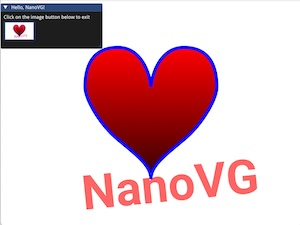
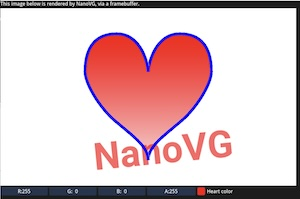
Work on nanovg demos / metal

diff --git a/bindings/imgui_bundle/demos_python/demos_nanovg/demo_nanovg_heart.py b/bindings/imgui_bundle/demos_python/demos_nanovg/demo_nanovg_heart.py
@@ -1,7 +1,17 @@
 from imgui_bundle import hello_imgui, imgui, nanovg as nvg, ImVec2
 import math
+from typing import List
 
 nvg_imgui = nvg.nvg_imgui
+
+
+class DrawingState:
+    heart_color: List[float]
+
+    def __init__(self):
+        self.heart_color = [1.0, 0.0, 0.0, 1.0]
+
+gDrawingState = DrawingState()
 
 
 def draw_heart(vg: nvg.Context, center: ImVec2, size: float, t: float):
@@ -29,7 +39,10 @@ def draw_heart(vg: nvg.Context, center: ImVec2, size: float, t: float):
     nvg.bezier_to(vg, -0.1, 1.0, 0.0, 0.5, 0.0, 0.4)
 
     # Create gradient from top to bottom
-    paint = nvg.linear_gradient(vg, 0.0, 1.0, 0.0, -1.0, nvg.rgba_f(1, 0, 0, 1), nvg.rgba_f(0.2, 0, 0, 1))
+    color = gDrawingState.heart_color
+    color_full = nvg.rgba_f(color[0], color[1], color[2], color[3])
+    color_transparent = nvg.rgba_f(color[0], color[1], color[2], 0.2)
+    paint = nvg.linear_gradient(vg, 0.0, 1.0, 0.0, -1.0, color_full, color_transparent)
     nvg.fill_paint(vg, paint)
     nvg.fill(vg)
 
@@ -89,12 +102,12 @@ class AppStateNvgHeart:
         # Our NanoVG context
         self.vg = None
 
-        # A framebuffer, which will be used as a texture for our button
+        # A framebuffer, which will be used as a texture for the ImGui rendering
         self.nvg_framebuffer = None
 
     def init(self):
         # Instantiate the NanoVG context
-        self.vg = nvg_imgui.create_nvg_context_gl(nvg_imgui.NvgCreateFlags.antialias | nvg_imgui.NvgCreateFlags.stencil_strokes)
+        self.vg = nvg_imgui.create_nvg_context_hello_imgui(nvg_imgui.NvgCreateFlags.antialias | nvg_imgui.NvgCreateFlags.stencil_strokes)
 
         # Create a framebuffer
         nvg_image_flags = 0  # NVG_IMAGE_FLIPY | NVG_IMAGE_PREMULTIPLIED;
@@ -102,7 +115,7 @@ class AppStateNvgHeart:
 
     def release(self):
         self.nvg_framebuffer = None
-        nvg_imgui.delete_nvg_context_gl(self.vg)
+        nvg_imgui.delete_nvg_context_hello_imgui(self.vg)
 
 
 def main():
@@ -113,33 +126,14 @@ def main():
     runner_params.callbacks.enqueue_post_init(lambda: app_state.init())
     runner_params.callbacks.enqueue_before_exit(lambda: app_state.release())
 
-    # Render our drawing to a custom background:
-    #   (we need to disable the default ImGui window, so that the background is visible)
-    runner_params.imgui_window_params.default_imgui_window_type = hello_imgui.DefaultImGuiWindowType.no_default_window
-
-    # CustomBackground is where we can draw our custom background
-    def custom_background():
-        nvg_imgui.render_nvg_to_background(app_state.vg, draw_scene)
-
-    runner_params.callbacks.custom_background = custom_background
-
     def gui():
-        imgui.set_next_window_pos(ImVec2(0., 0.), imgui.Cond_.appearing)
-        imgui.set_next_window_size(hello_imgui.em_to_vec2(10., 6.))
-        imgui.begin("Hello, NanoVG!")
+        imgui.text("This image below is rendered by NanoVG, via a framebuffer.")
 
-        # Also, render our drawing to a framebuffer, and use it as a texture for an ImGui button
-        # Render to our framebuffer
+        # Render our drawing to a framebuffer, and use it as a texture for ImGui
         nvg_imgui.render_nvg_to_frame_buffer(app_state.vg, app_state.nvg_framebuffer, draw_scene)
-        # Use it as a texture for an ImGui image widget
-        imgui.image(app_state.nvg_framebuffer.texture_id, hello_imgui.em_to_vec2(5.0, 3.0))
-        if imgui.is_item_hovered():
-            imgui.set_tooltip(
-                "The application background is rendered by NanoVG.\n"
-                "This image is also rendered by NanoVG, via a framebuffer.\n"
-            )
+        imgui.image(app_state.nvg_framebuffer.texture_id, hello_imgui.em_to_vec2(50, 30))
 
-        imgui.end()
+        _, gDrawingState.heart_color = imgui.color_edit4("Heart color", gDrawingState.heart_color)
 
     runner_params.callbacks.show_gui = gui
     runner_params.fps_idling.enable_idling = False

diff --git a/bindings/imgui_bundle/demos_cpp/demos_nanovg/demo_nanovg_heart.cpp b/bindings/imgui_bundle/demos_cpp/demos_nanovg/demo_nanovg_heart.cpp
@@ -6,6 +6,14 @@
 #include <math.h>
 
 
+struct DrawingState
+{
+    ImVec4 HeartColor = ImVec4(1.f, 0.f, 0.f, 1.f);
+};
+
+DrawingState gDrawingState;
+
+
 void DrawHeart(NVGcontext* vg, ImVec2 center, float size, float t)
 {
     float x = center.x, y = center.y;
@@ -33,7 +41,10 @@ void DrawHeart(NVGcontext* vg, ImVec2 center, float size, float t)
     }
 
     // Create gradient from top to bottom
-    NVGpaint paint = nvgLinearGradient(vg, 0.f, 1.f, 0.f, -1.f, nvgRGBAf(1, 0, 0, 1), nvgRGBAf(0.2, 0, 0, 1));
+    ImVec4 color = gDrawingState.HeartColor;
+    auto color_full = nvgRGBAf(color.x, color.y, color.z, color.w);
+    auto color_transparent = nvgRGBAf(color.x, color.y, color.z, 0.2f);
+    NVGpaint paint = nvgLinearGradient(vg, 0.f, 1.f, 0.f, -1.f, color_full, color_transparent);
     nvgFillPaint(vg, paint);
     nvgFill(vg);
 
@@ -104,13 +115,13 @@ struct AppStateNvgHeart
     // Our NanoVG context
     NVGcontext *vg = nullptr;
 
-    // A framebuffer, which will be used as a texture for our button
+    // A framebuffer, which will be used as a texture for the ImGui rendering
     std::unique_ptr<NvgImgui::NvgFramebuffer> nvgFramebuffer;
 
     void Init()
     {
         // Instantiate the NanoVG context
-        vg = NvgImgui::CreateNvgContext_GL(NvgImgui::NVG_ANTIALIAS | NvgImgui::NVG_STENCIL_STROKES);
+        vg = NvgImgui::CreateNvgContext_HelloImGui(NvgImgui::NVG_ANTIALIAS | NvgImgui::NVG_STENCIL_STROKES);
 
         // Create a framebuffer
         int nvgImageFlags = 0; //NVG_IMAGE_FLIPY | NVG_IMAGE_PREMULTIPLIED;
@@ -120,7 +131,7 @@ struct AppStateNvgHeart
     void Release()
     {
         nvgFramebuffer.reset();
-        NvgImgui::DeleteNvgContext_GL(vg);
+        NvgImgui::DeleteNvgContext_HelloImGui(vg);
     }
 };
 
@@ -134,33 +145,15 @@ int main(int, char**)
     runnerParams.callbacks.EnqueuePostInit([&]() { appState.Init(); });
     runnerParams.callbacks.EnqueueBeforeExit([&]() { appState.Release(); });
 
-    // Render our drawing to a custom background:
-    //   (we need to disable the default ImGui window, so that the background is visible)
-    runnerParams.imGuiWindowParams.defaultImGuiWindowType = HelloImGui::DefaultImGuiWindowType::NoDefaultWindow;
-    // CustomBackground is where we can draw our custom background
-    runnerParams.callbacks.CustomBackground = [&](){
-        NvgImgui::RenderNvgToBackground(appState.vg, DrawScene);
-    };
-
 
     auto gui = [&]()
     {
-        ImGui::SetNextWindowPos(ImVec2(0.f, 0.f), ImGuiCond_Appearing);
-        ImGui::SetNextWindowSize(HelloImGui::EmToVec2(10.f, 6.f));
-        ImGui::Begin("Hello, NanoVG!");
-
-        // Also, render our drawing to a framebuffer, and use it as a texture for an ImGui button
-        // Render to our framebuffer
+        ImGui::Text("This image below is rendered by NanoVG, via a framebuffer.");
+        // Render our drawing to a framebuffer, and use it as a texture for ImGui
         NvgImgui::RenderNvgToFrameBuffer(appState.vg, *appState.nvgFramebuffer, DrawScene);
-        // Use it as a texture for an ImGui image widget
-        ImGui::Image(appState.nvgFramebuffer->TextureId, HelloImGui::EmToVec2(5.f, 3.f));
-        if (ImGui::IsItemHovered())
-            ImGui::SetTooltip(
-                "The application background is rendered by NanoVG.\n"
-                "This image is also rendered by NanoVG, via a framebuffer.\n"
-            );
+        ImGui::Image(appState.nvgFramebuffer->TextureId, HelloImGui::EmToVec2(50.f, 30.f));
 
-        ImGui::End();
+        ImGui::ColorEdit4("Heart color", &gDrawingState.HeartColor.x);
     };
     runnerParams.callbacks.ShowGui = gui;
     runnerParams.fpsIdling.enableIdling = false;

diff --git a/bindings/imgui_bundle/demos_cpp/demos_nanovg/demo_nanovg_full.cpp b/bindings/imgui_bundle/demos_cpp/demos_nanovg/demo_nanovg_full.cpp
@@ -42,7 +42,11 @@ struct AppState
     std::unique_ptr<NvgImgui::NvgFramebuffer> myFramebuffer;
 
     ImVec4 ClearColor = ImVec4(0.2f, 0.2f, 0.2f, 1.f);
+#ifdef HELLOIMGUI_HAS_METAL
+    bool DisplayInFrameBuffer = true;
+#else
     bool DisplayInFrameBuffer = false;
+#endif
 };
 
 
@@ -59,7 +63,7 @@ int main(int, char**)
 
     runnerParams.callbacks.EnqueuePostInit([&]()
     {
-        appState.vg = NvgImgui::CreateNvgContext_GL(
+        appState.vg = NvgImgui::CreateNvgContext_HelloImGui(
             NvgImgui::NVG_ANTIALIAS | NvgImgui::NVG_STENCIL_STROKES); // | NvgImgui::NVG_DEBUG);
         appState.myNvgDemo = std::make_unique<MyNvgDemo>(appState.vg);
         int nvgImageFlags = 0; //NVG_IMAGE_FLIPY | NVG_IMAGE_PREMULTIPLIED;
@@ -69,7 +73,7 @@ int main(int, char**)
     {
         appState.myNvgDemo.reset();
         appState.myFramebuffer.reset();
-        NvgImgui::DeleteNvgContext_GL(appState.vg);
+        NvgImgui::DeleteNvgContext_HelloImGui(appState.vg);
     });
 
     auto nvgDrawingFunction = [&](NVGcontext *vg, float width, float height)
@@ -82,14 +86,23 @@ int main(int, char**)
         appState.myNvgDemo->Render(width, height, (int)mousePos.x, (int)mousePos.y, (float)now);
     };
 
+#ifndef HELLOIMGUI_HAS_METAL
     runnerParams.callbacks.CustomBackground = [&]()
     {
         NvgImgui::RenderNvgToBackground(appState.vg, nvgDrawingFunction, appState.ClearColor);
     };
+#endif
 
     runnerParams.callbacks.ShowGui = [&]()
     {
+        ImGui::SetNextWindowPos(ImVec2(0, 0), ImGuiCond_Appearing);
         ImGui::Begin("My Window!", NULL, ImGuiWindowFlags_AlwaysAutoResize);
+
+        if (appState.DisplayInFrameBuffer)
+        {
+            NvgImgui::RenderNvgToFrameBuffer(appState.vg, *appState.myFramebuffer, nvgDrawingFunction, appState.ClearColor);
+            ImGui::Image(appState.myFramebuffer->TextureId, ImVec2(1000, 600));
+        }
 
         ImGui::Button("?##Note");
         if (ImGui::IsItemHovered())
@@ -109,12 +122,6 @@ int main(int, char**)
         ImGui::ColorEdit4("Clear color", &appState.ClearColor.x);
         if (ImGui::IsItemHovered())
             ImGui::SetTooltip("Background color of the drawing");
-
-        if (appState.DisplayInFrameBuffer)
-        {
-            NvgImgui::RenderNvgToFrameBuffer(appState.vg, *appState.myFramebuffer, nvgDrawingFunction, appState.ClearColor);
-            ImGui::Image(appState.myFramebuffer->TextureId, ImVec2(1000, 600));
-        }
 
         ImGui::End();
     };

diff --git a/bindings/imgui_bundle/demos_python/demos_nanovg/demo_nanovg_full.py b/bindings/imgui_bundle/demos_python/demos_nanovg/demo_nanovg_full.py
@@ -53,7 +53,7 @@ def main():
     runner_params.app_window_params.window_geometry.size = (1200, 900)
 
     def post_init():
-        app_state.vg = nvg_imgui.create_nvg_context_gl(nvg_imgui.NvgCreateFlags.antialias.value | nvg_imgui.NvgCreateFlags.stencil_strokes.value)
+        app_state.vg = nvg_imgui.create_nvg_context_hello_imgui(nvg_imgui.NvgCreateFlags.antialias.value | nvg_imgui.NvgCreateFlags.stencil_strokes.value)
         app_state.myNvgDemo = MyNvgDemo()
         app_state.myNvgDemo.init(app_state.vg)
         nvg_image_flags = 0
@@ -62,7 +62,7 @@ def main():
     def before_exit():
         app_state.myNvgDemo.reset()
         app_state.myFrameBuffer = None
-        nvg_imgui.delete_nvg_context_gl(app_state.vg)
+        nvg_imgui.delete_nvg_context_hello_imgui(app_state.vg)
 
     runner_params.callbacks.enqueue_post_init(post_init)
     runner_params.callbacks.enqueue_before_exit(before_exit)
@@ -81,7 +81,13 @@ def main():
     runner_params.callbacks.custom_background = custom_background
 
     def gui():
+        imgui.set_next_window_pos(ImVec2(0, 0), imgui.Cond_.appearing.value)
         imgui.begin("My Window!", None, imgui.WindowFlags_.always_auto_resize.value)
+
+        if app_state.display_in_frame_buffer:
+            clear_color_vec4 = ImVec4(*app_state.clear_color)
+            nvg_imgui.render_nvg_to_frame_buffer(app_state.vg, app_state.myFrameBuffer, nvg_drawing_function, clear_color_vec4)
+            imgui.image(app_state.myFrameBuffer.texture_id, ImVec2(1000, 600))
 
         imgui.button("?##Note")
         if imgui.is_item_hovered():
@@ -101,11 +107,6 @@ def main():
         _, app_state.clear_color = imgui.color_edit4("Clear Color", app_state.clear_color)
         if imgui.is_item_hovered():
             imgui.set_tooltip("Background color of the drawing")
-
-        if app_state.display_in_frame_buffer:
-            clear_color_vec4 = ImVec4(*app_state.clear_color)
-            nvg_imgui.render_nvg_to_frame_buffer(app_state.vg, app_state.myFrameBuffer, nvg_drawing_function, clear_color_vec4)
-            imgui.image(app_state.myFrameBuffer.texture_id, ImVec2(1000, 600))
 
         imgui.end()
 
